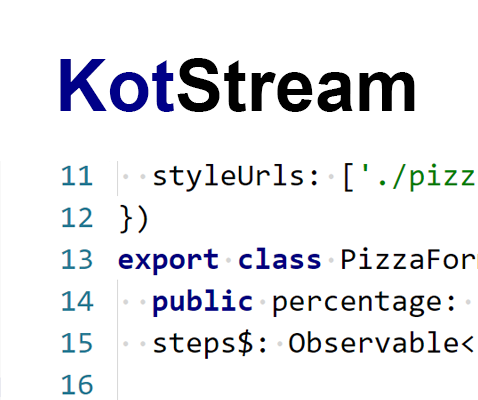
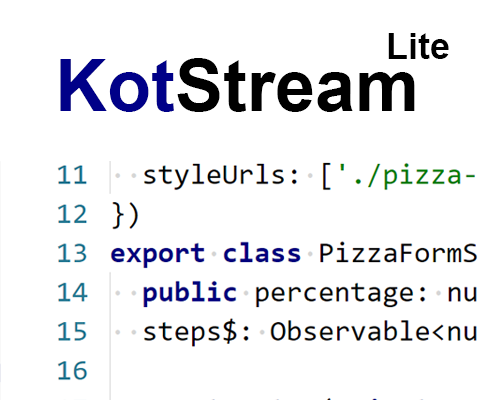
Rename

diff --git a/README.md b/README.md
@@ -1,4 +1,4 @@
-# Kot Stream Theme Lite
+# KotStream Theme Lite
 
 ![Icon](https://raw.githubusercontent.com/owlruslan/kot-stream-theme-lite-vscode/master/icon.png "Icon")
 
@@ -12,4 +12,3 @@ To get the full theme experience set the following settings in VSCode:
 ```
 
 **Enjoy!**
-"# kot-stream-theme-lite-vscode" 
